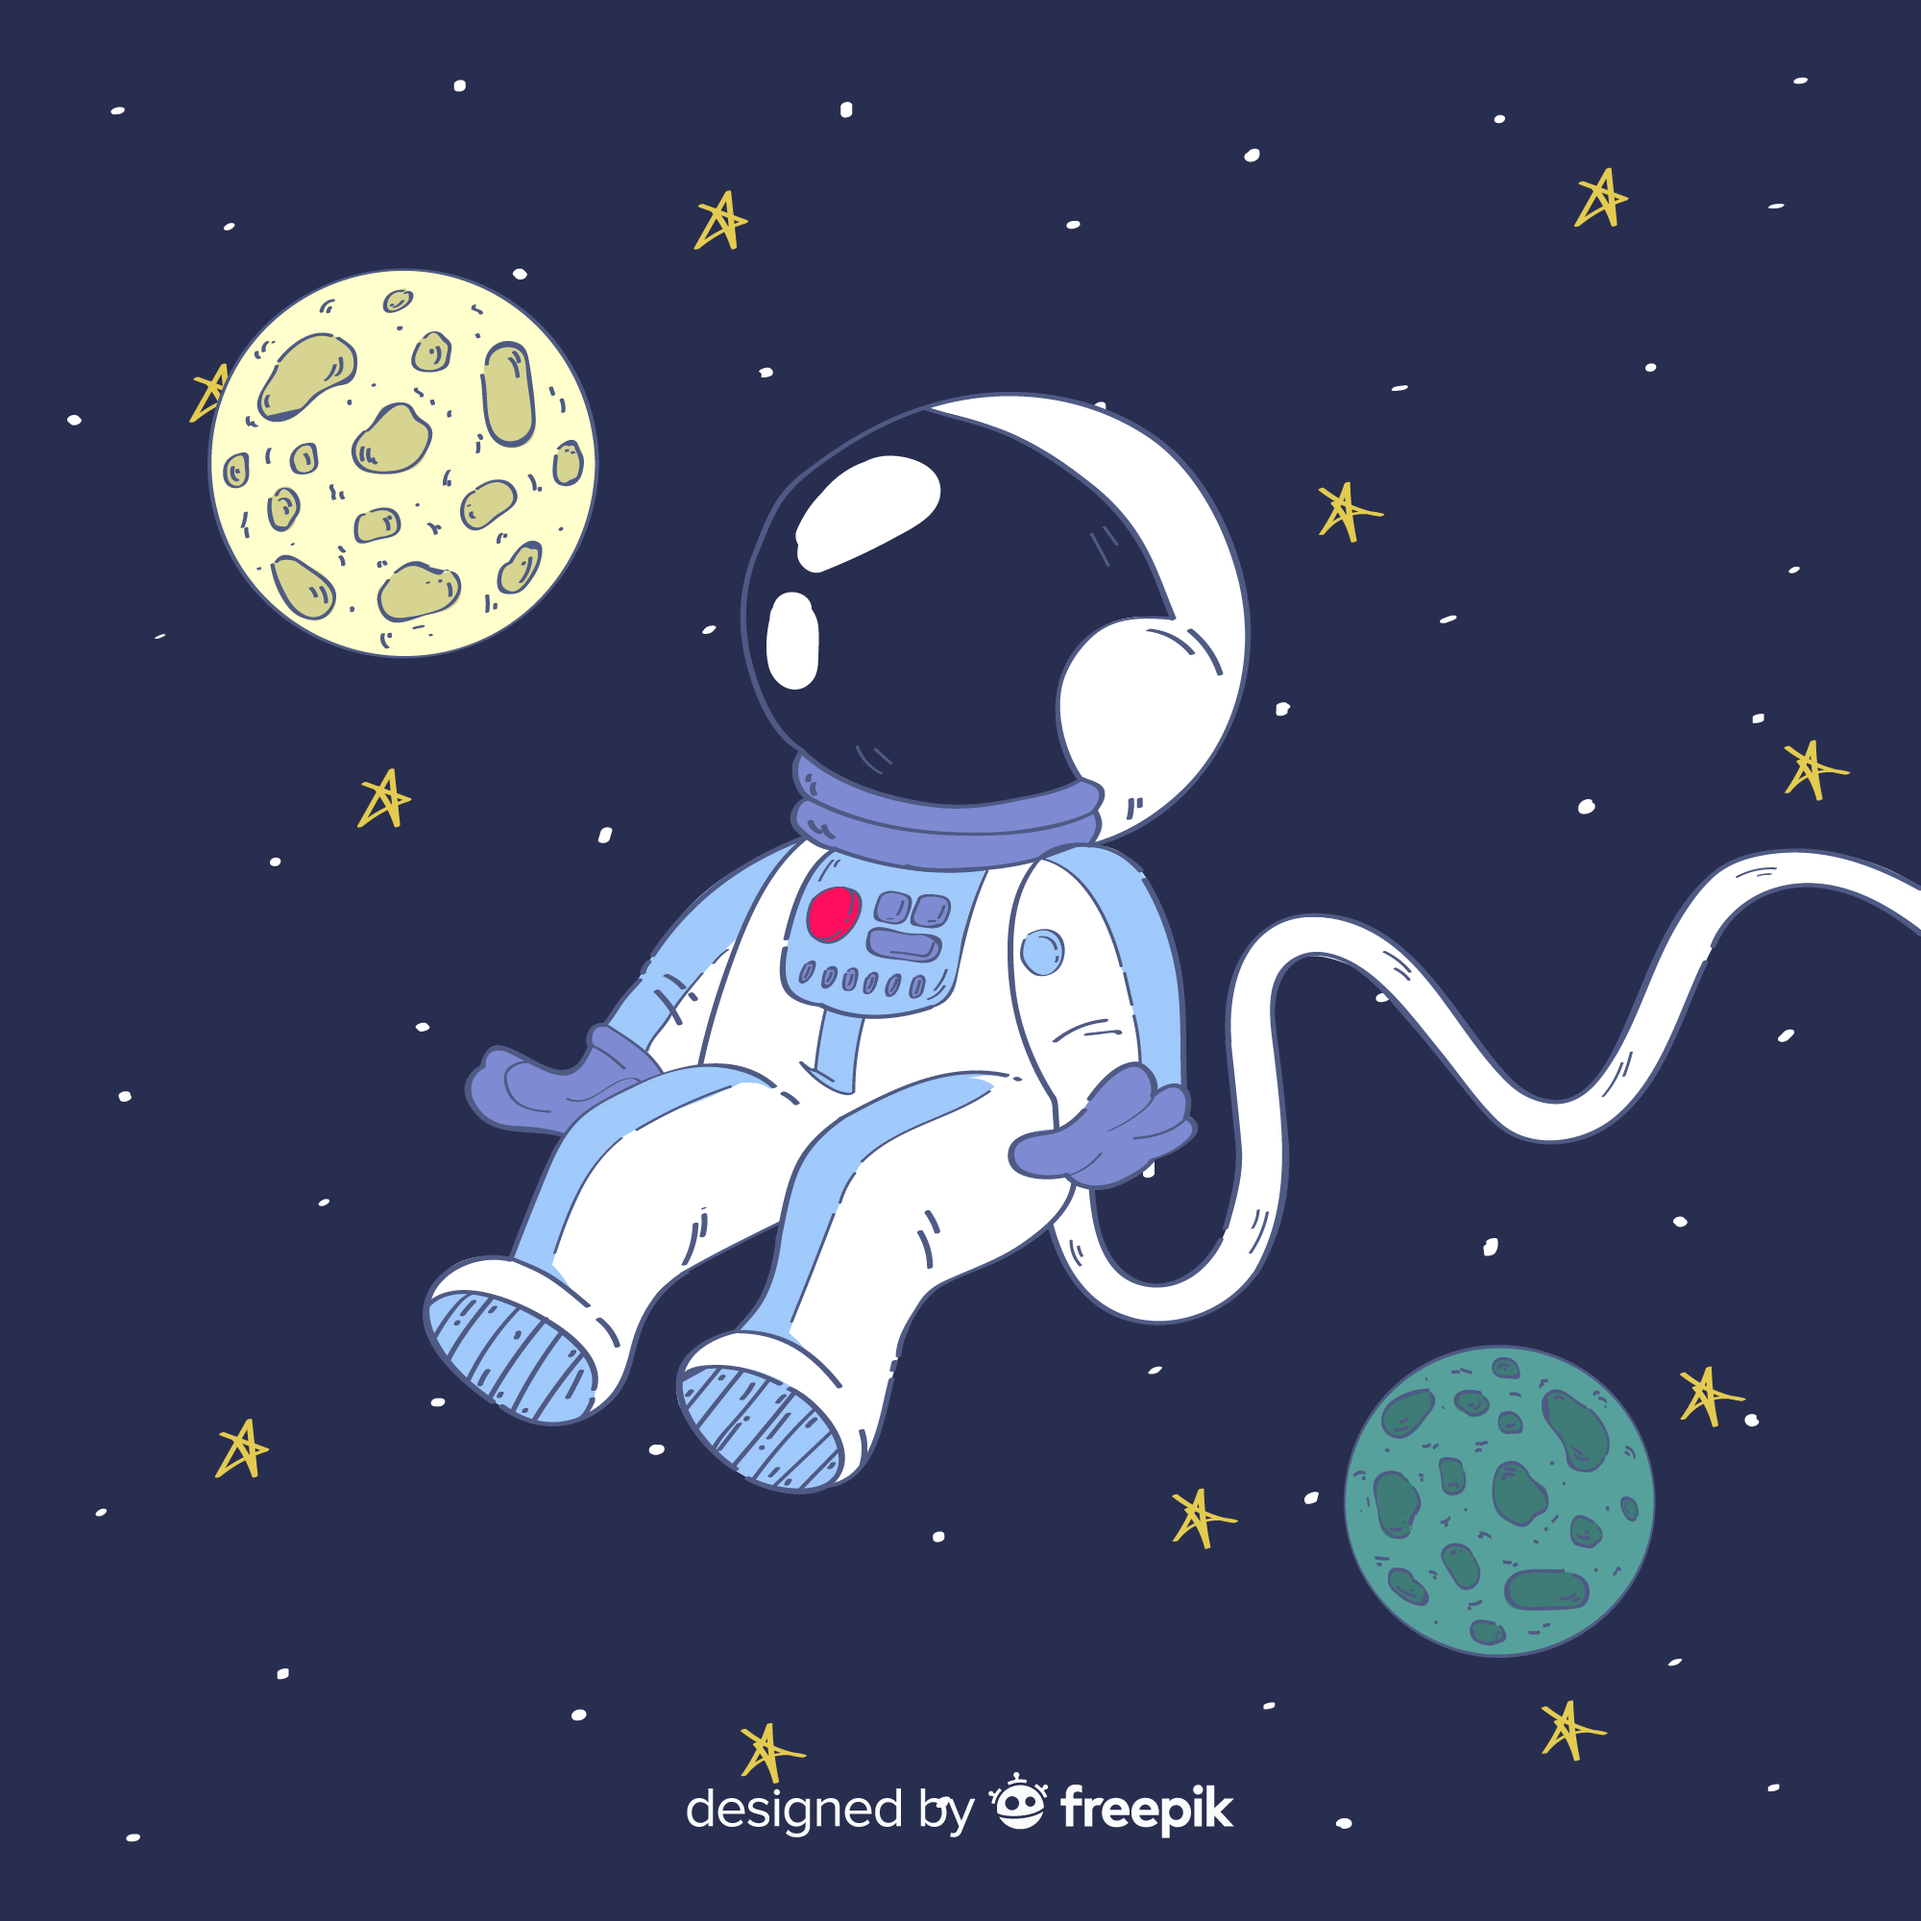
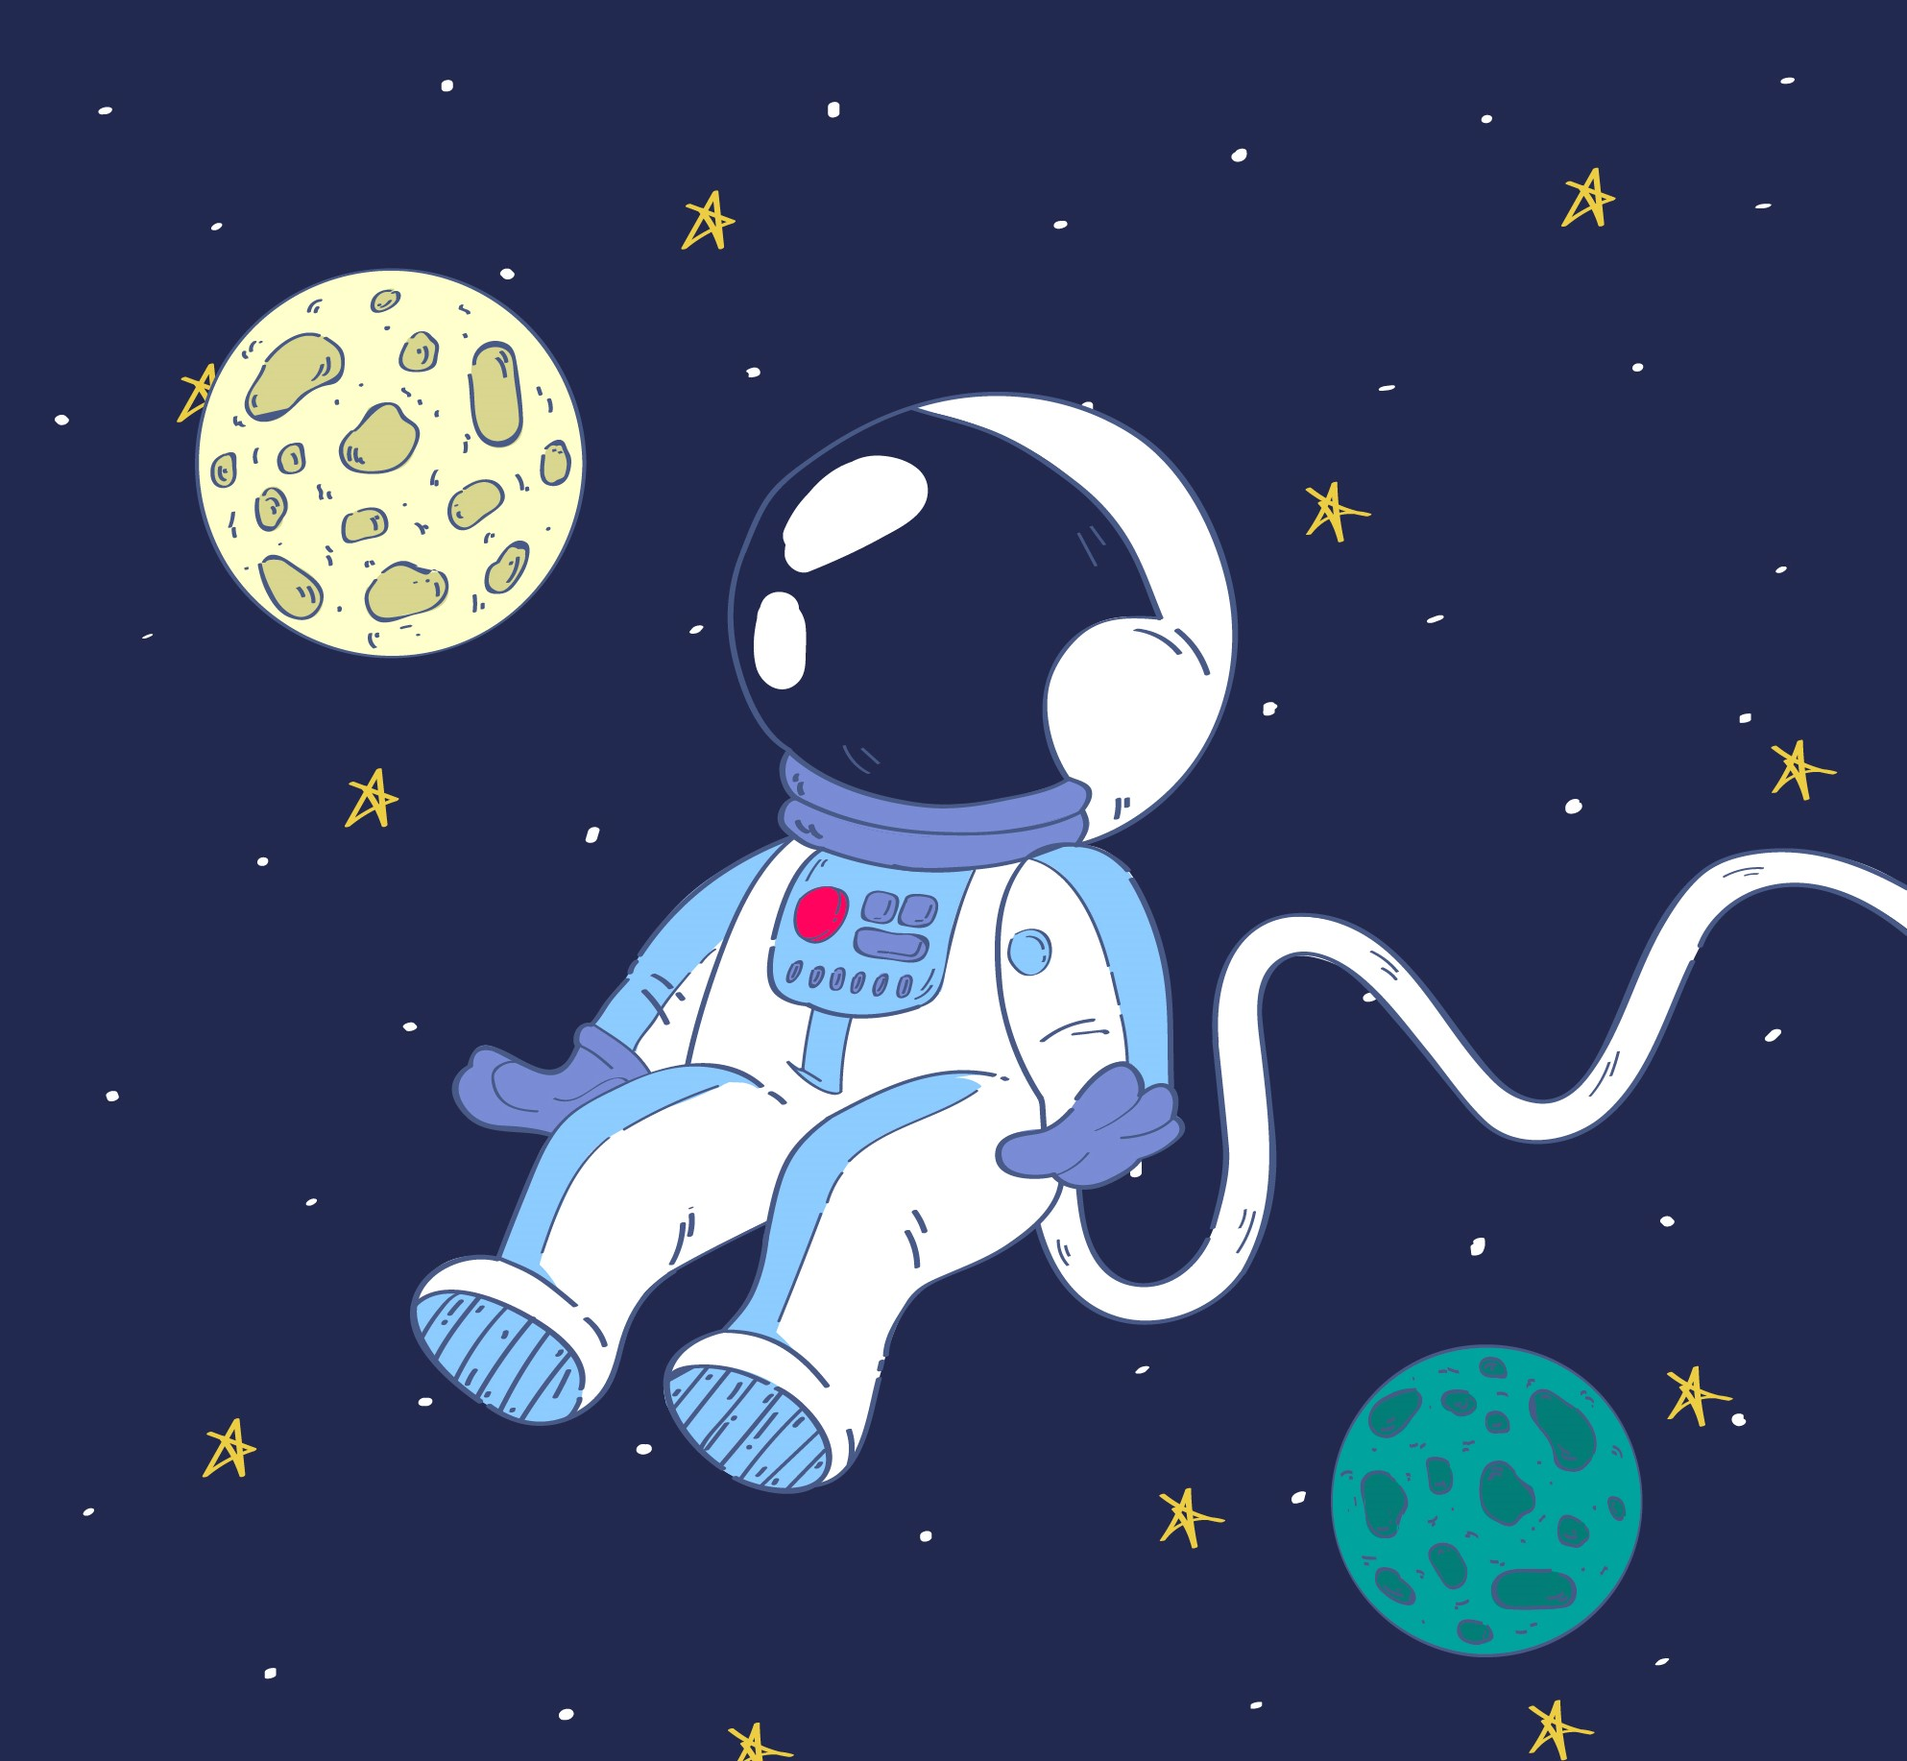
Add files via upload

diff --git a/index.html b/index.html
@@ -28,24 +28,19 @@
     <div class="hero-content">
       <h1>Hi There</h1>
       <h3>Need a Web Developer?</h3>
-      <a class="btn" href="#">Contact</a>
+      <a class="btn call-to-action-btn" href="#">Contact</a>
     </div>
   </section>
 
-  <section class="destinations">
-    <h3 class="title">Some Of Our Work</h3>
+  <section class="profile">
+    <h3 class="title">About Me</h3>
+    <img class="profile-img" src="assets/img/cartoon-astro.jpg" alt="">
     <p>Lorem ipsum dolor sit amet, consectetur adipiscing elit. Nullam id felis et ipsum bibendum ultrices. <br />Morbi vitae pulvinar velit. Sed aliquam dictum sapien, id sagittis augue malesuada eu.</p>
     <hr />
-    <ul class="grid">
-      <li class="small" style="background-image: url(assets/img/mountain1.jpg)"></li>
-      <li class="large" style="background-image: url(assets/img/mountain2.jpg)"></li>
-      <li class="large" style="background-image: url(assets/img/mountain3.jpg)"></li>
-      <li class="small" style="background-image: url(assets/img/mountain4.jpg)"></li>
-    </ul>
   </section>
 
   <section class="packages">
-    <h3 class="title">Features And Services</h3>
+    <h3 class="title">Development Skills</h3>
     <p>Lorem ipsum dolor sit amet, consectetur adipiscing elit. Nullam id felis et ipsum bibendum ultrices. <br />Morbi vitae pulvinar velit. Sed aliquam dictum sapien, id sagittis augue malesuada eu.</p>
     <hr />
     <ul class="grid">

diff --git a/assets/css/styles.css b/assets/css/styles.css
@@ -198,20 +198,30 @@ section:not(.hero):nth-child(even) {
   width: 100%;
   justify-content: center;
 }
+.profile .grid {
+  display: flex;
+  flex-wrap: wrap;
+  flex-direction: column;
+  justify-content: center;
+  width: 100%;
 
-.destinations .grid li {
+}
+
+.profile .grid li {
   height: 350px;
   padding: 20px;
-  background-clip: content-box;
   background-position: center;
+
 }
 
-.destinations .grid li.small {
-  flex-basis: 30%;
+.profile-img {
+  width: 300px;
+  border-radius: 50%;
+  margin-bottom: 30px;
 }
 
-.destinations .grid li.large {
-  flex-basis: 70%;
+.profile .grid li.profile-info {
+
 }
 
 @media only screen and (max-width: 1100px) {
@@ -256,6 +266,8 @@ section:not(.hero):nth-child(even) {
 
 .packages .grid li .grid-sub li {
   flex-basis: 100%;
+  padding: 25px;
+  padding-bottom: 0;
 }
 
 .packages .grid li i {

diff --git a/assets/js/main.js b/assets/js/main.js
@@ -1,4 +1,4 @@
-$(".btn").click(function() {
+$(".call-to-action-btn").click(function() {
   var posToScroll = $("#contact").position();
   $("html,body").animate({
     scrollTop: posToScroll.top
